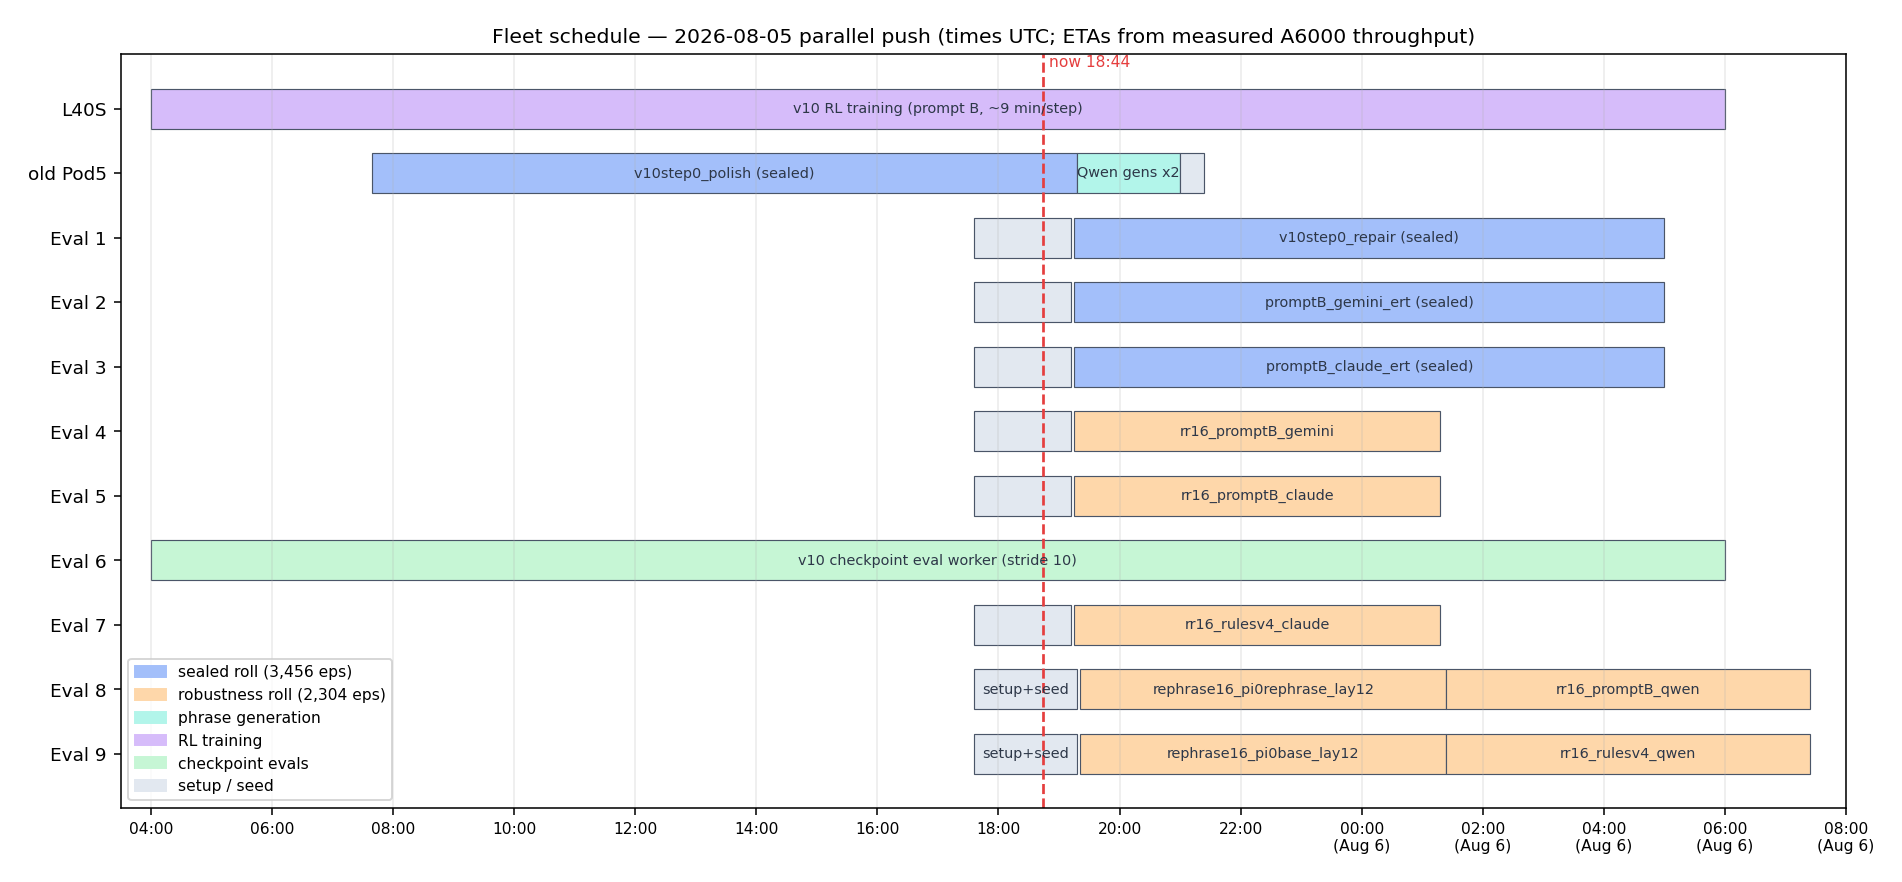
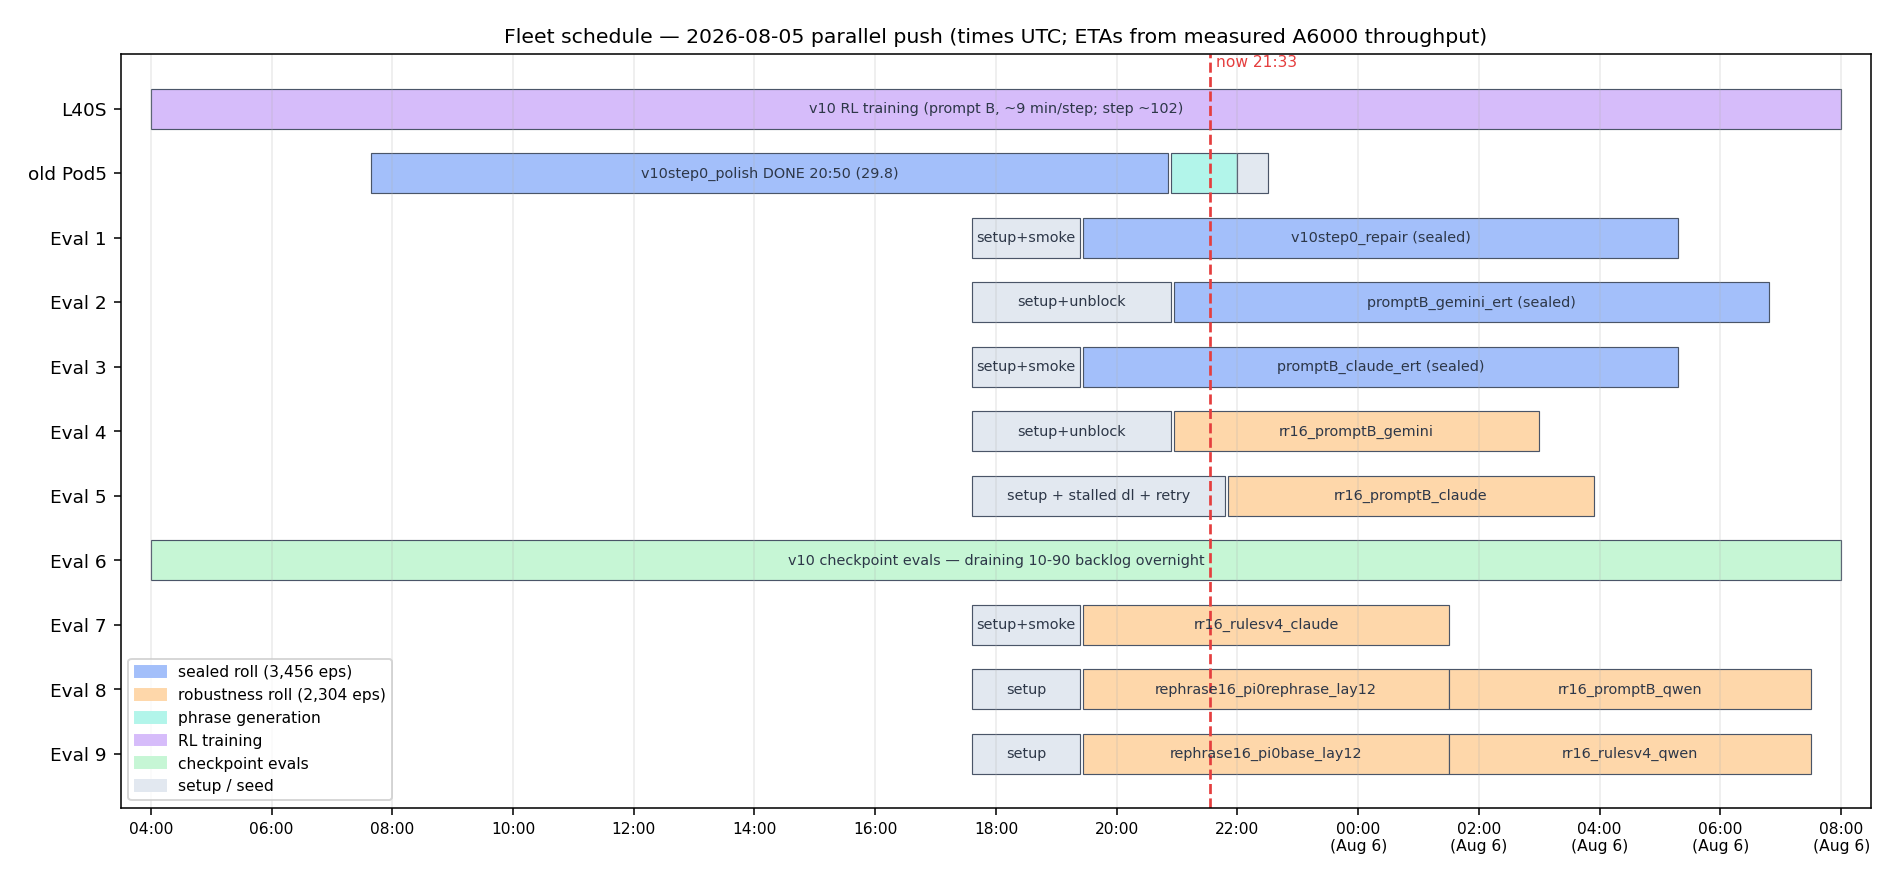
gantt refresh: actuals through 21:33

diff --git a/scripts/make_fleet_gantt.py b/scripts/make_fleet_gantt.py
@@ -9,24 +9,24 @@ from matplotlib.patches import Patch
 
 C = {"sealed": "#a3bffa", "rr": "#fed7aa", "gen": "#b2f5ea",
      "train": "#d6bcfa", "worker": "#c6f6d5", "setup": "#e2e8f0"}
-NOW = 18.73  # 18:44 UTC
+NOW = 21.55  # 21:33 UTC
 
 ROWS = [
-    ("L40S",    [("v10 RL training (prompt B, ~9 min/step)", 4.0, 30.0, "train")]),
-    ("old Pod5",[("v10step0_polish (sealed)", 7.65, 19.3, "sealed"),
-                 ("Qwen gens x2", 19.3, 21.0, "gen"),
-                 ("stop-ready", 21.0, 21.4, "setup")]),
-    ("Eval 1",  [("setup+seed", 17.6, 19.2, "setup"), ("v10step0_repair (sealed)", 19.25, 29.0, "sealed")]),
-    ("Eval 2",  [("setup+seed", 17.6, 19.2, "setup"), ("promptB_gemini_ert (sealed)", 19.25, 29.0, "sealed")]),
-    ("Eval 3",  [("setup+seed", 17.6, 19.2, "setup"), ("promptB_claude_ert (sealed)", 19.25, 29.0, "sealed")]),
-    ("Eval 4",  [("setup+seed", 17.6, 19.2, "setup"), ("rr16_promptB_gemini", 19.25, 25.3, "rr")]),
-    ("Eval 5",  [("setup+seed", 17.6, 19.2, "setup"), ("rr16_promptB_claude", 19.25, 25.3, "rr")]),
-    ("Eval 6",  [("v10 checkpoint eval worker (stride 10)", 4.0, 30.0, "worker")]),
-    ("Eval 7",  [("setup+seed", 17.6, 19.2, "setup"), ("rr16_rulesv4_claude", 19.25, 25.3, "rr")]),
-    ("Eval 8",  [("setup+seed", 17.6, 19.3, "setup"), ("rephrase16_pi0rephrase_lay12", 19.35, 25.4, "rr"),
-                 ("rr16_promptB_qwen", 25.4, 31.4, "rr")]),
-    ("Eval 9",  [("setup+seed", 17.6, 19.3, "setup"), ("rephrase16_pi0base_lay12", 19.35, 25.4, "rr"),
-                 ("rr16_rulesv4_qwen", 25.4, 31.4, "rr")]),
+    ("L40S",    [("v10 RL training (prompt B, ~9 min/step; step ~102)", 4.0, 32.0, "train")]),
+    ("old Pod5",[("v10step0_polish DONE 20:50 (29.8)", 7.65, 20.85, "sealed"),
+                 ("Qwen gens", 20.9, 22.0, "gen"),
+                 ("stop-ready", 22.0, 22.5, "setup")]),
+    ("Eval 1",  [("setup+smoke", 17.6, 19.4, "setup"), ("v10step0_repair (sealed)", 19.45, 29.3, "sealed")]),
+    ("Eval 2",  [("setup+unblock", 17.6, 20.9, "setup"), ("promptB_gemini_ert (sealed)", 20.95, 30.8, "sealed")]),
+    ("Eval 3",  [("setup+smoke", 17.6, 19.4, "setup"), ("promptB_claude_ert (sealed)", 19.45, 29.3, "sealed")]),
+    ("Eval 4",  [("setup+unblock", 17.6, 20.9, "setup"), ("rr16_promptB_gemini", 20.95, 27.0, "rr")]),
+    ("Eval 5",  [("setup + stalled dl + retry", 17.6, 21.8, "setup"), ("rr16_promptB_claude", 21.85, 27.9, "rr")]),
+    ("Eval 6",  [("v10 checkpoint evals — draining 10-90 backlog overnight", 4.0, 32.0, "worker")]),
+    ("Eval 7",  [("setup+smoke", 17.6, 19.4, "setup"), ("rr16_rulesv4_claude", 19.45, 25.5, "rr")]),
+    ("Eval 8",  [("setup", 17.6, 19.4, "setup"), ("rephrase16_pi0rephrase_lay12", 19.45, 25.5, "rr"),
+                 ("rr16_promptB_qwen", 25.5, 31.5, "rr")]),
+    ("Eval 9",  [("setup", 17.6, 19.4, "setup"), ("rephrase16_pi0base_lay12", 19.45, 25.5, "rr"),
+                 ("rr16_rulesv4_qwen", 25.5, 31.5, "rr")]),
 ]
 
 fig, ax = plt.subplots(figsize=(13.5, 6.2))
@@ -37,13 +37,13 @@ for i, (pod, bars) in enumerate(ROWS):
         if e - s > 1.6:
             ax.text((s + e) / 2, y, label, ha="center", va="center", fontsize=7.4, color="#2d3748")
 ax.axvline(NOW, color="#e53e3e", lw=1.4, ls="--")
-ax.text(NOW + 0.1, len(ROWS) - 0.35, "now 18:44", color="#e53e3e", fontsize=8)
+ax.text(NOW + 0.1, len(ROWS) - 0.35, "now 21:33", color="#e53e3e", fontsize=8)
 ax.set_yticks(range(len(ROWS)))
 ax.set_yticklabels([p for p, _ in reversed(ROWS)], fontsize=9.5)
 ticks = list(range(4, 33, 2))
 ax.set_xticks(ticks)
 ax.set_xticklabels([f"{t % 24:02d}:00" + ("\n(Aug 6)" if t >= 24 else "") for t in ticks], fontsize=8)
-ax.set_xlim(3.5, 32)
+ax.set_xlim(3.5, 32.5)
 ax.grid(axis="x", alpha=0.25)
 ax.legend(handles=[Patch(color=C[k], label=l) for k, l in
                    [("sealed", "sealed roll (3,456 eps)"), ("rr", "robustness roll (2,304 eps)"),
